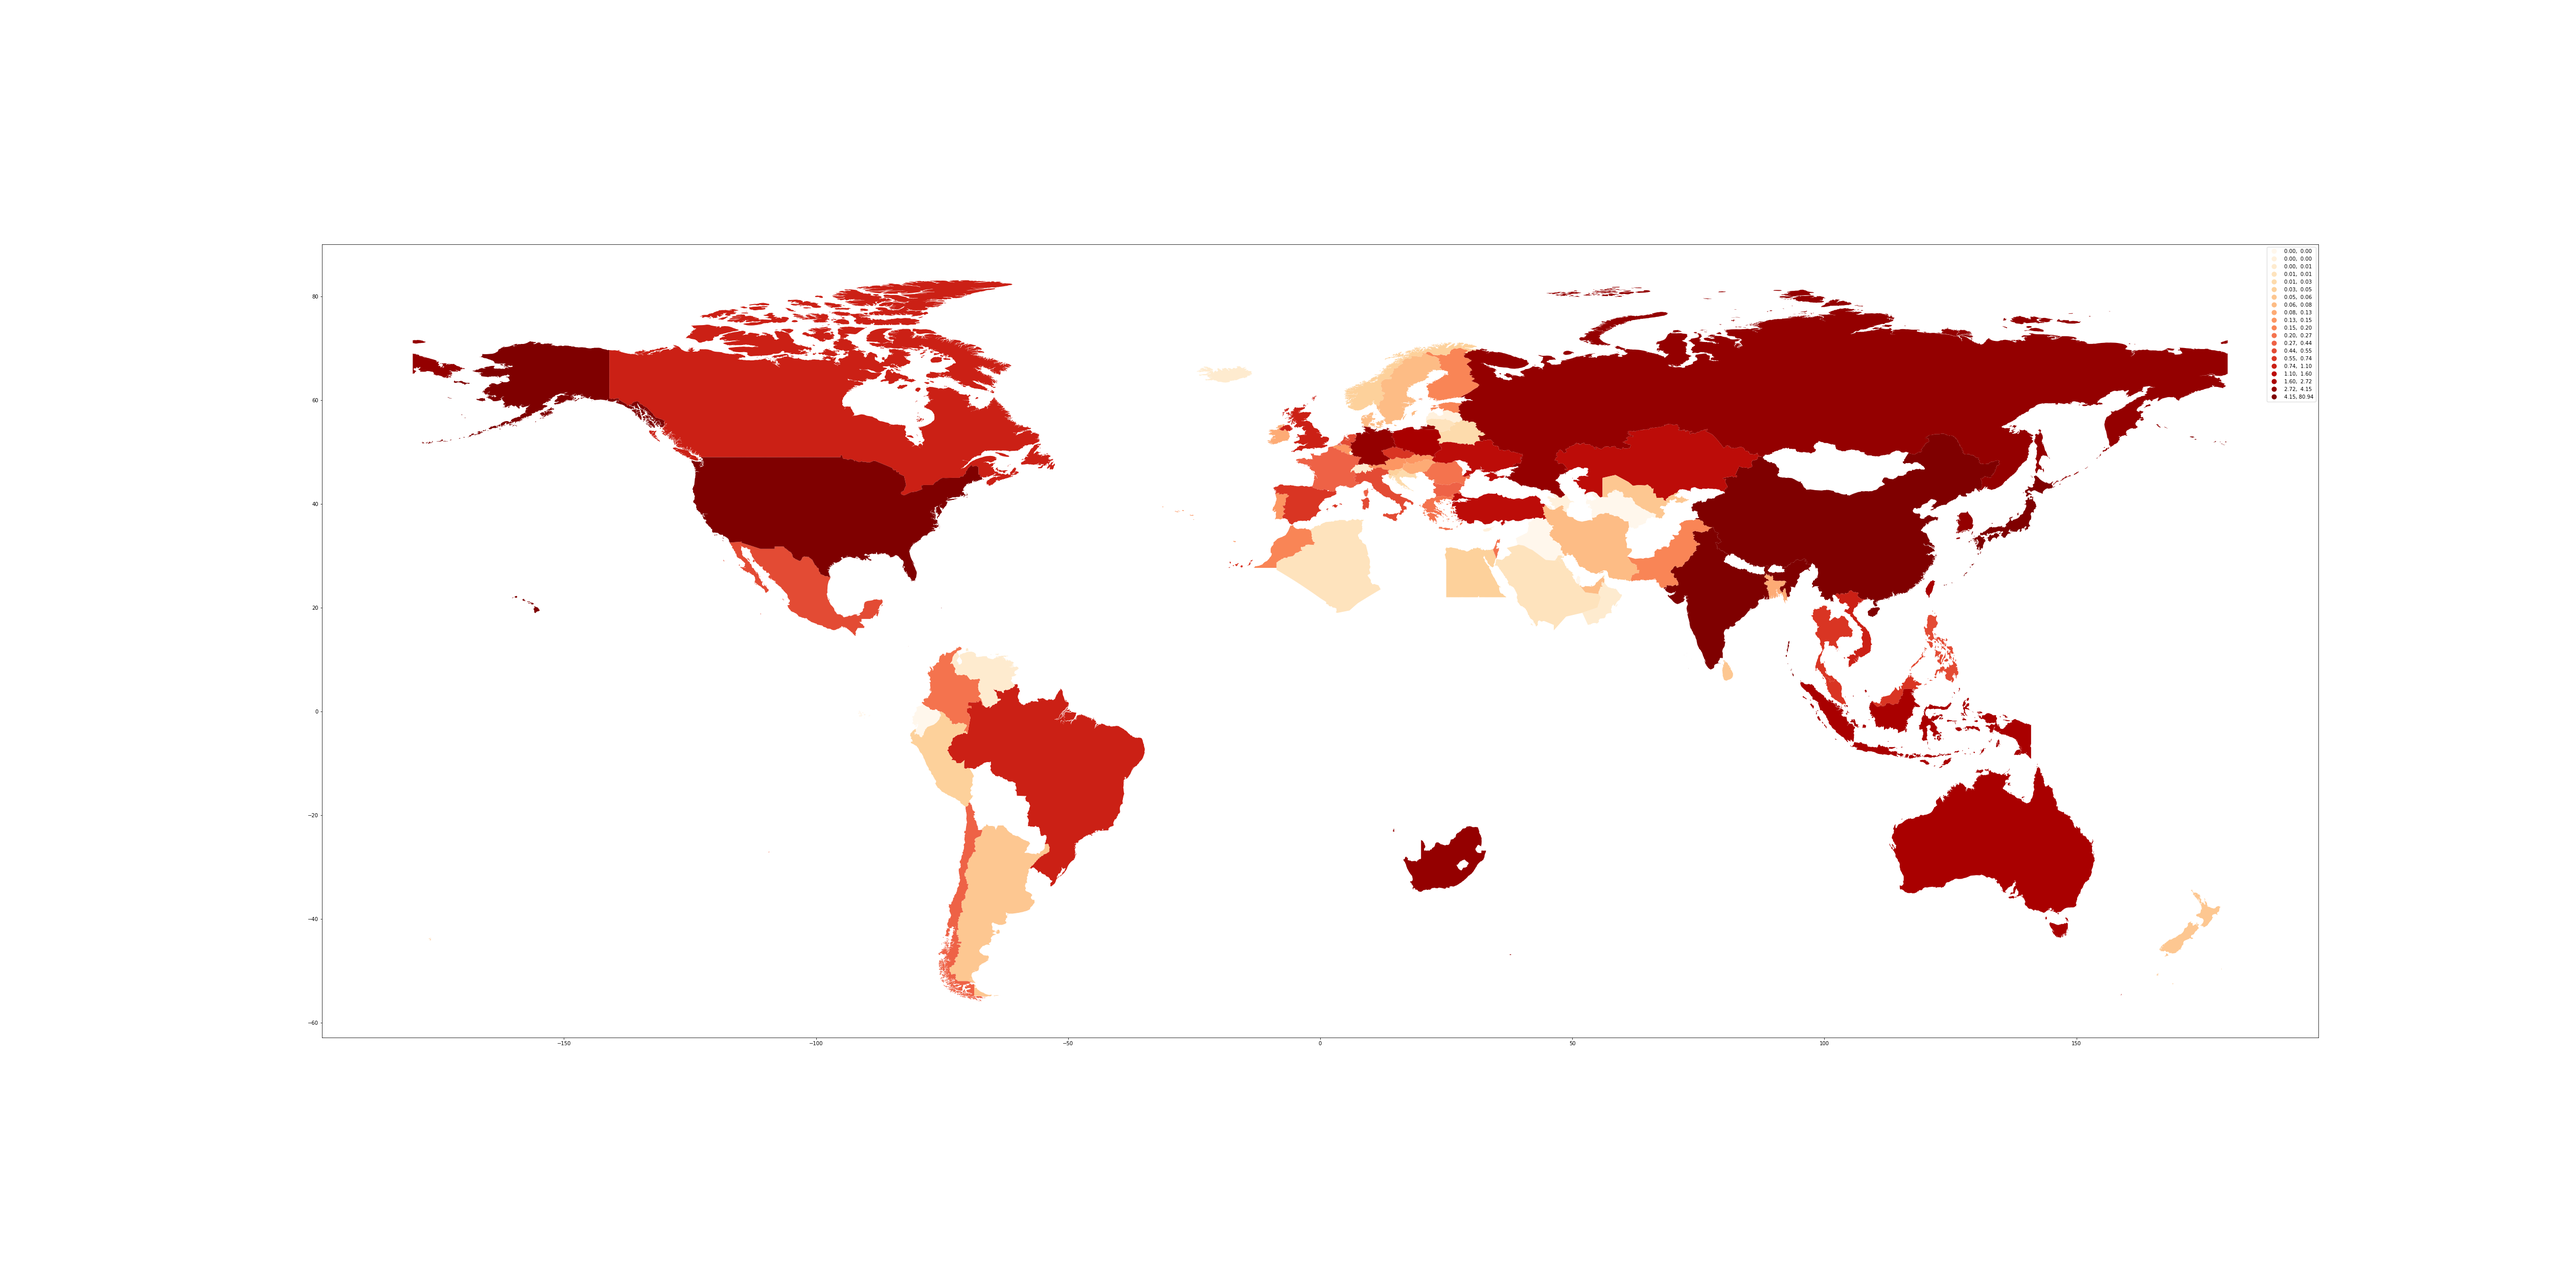
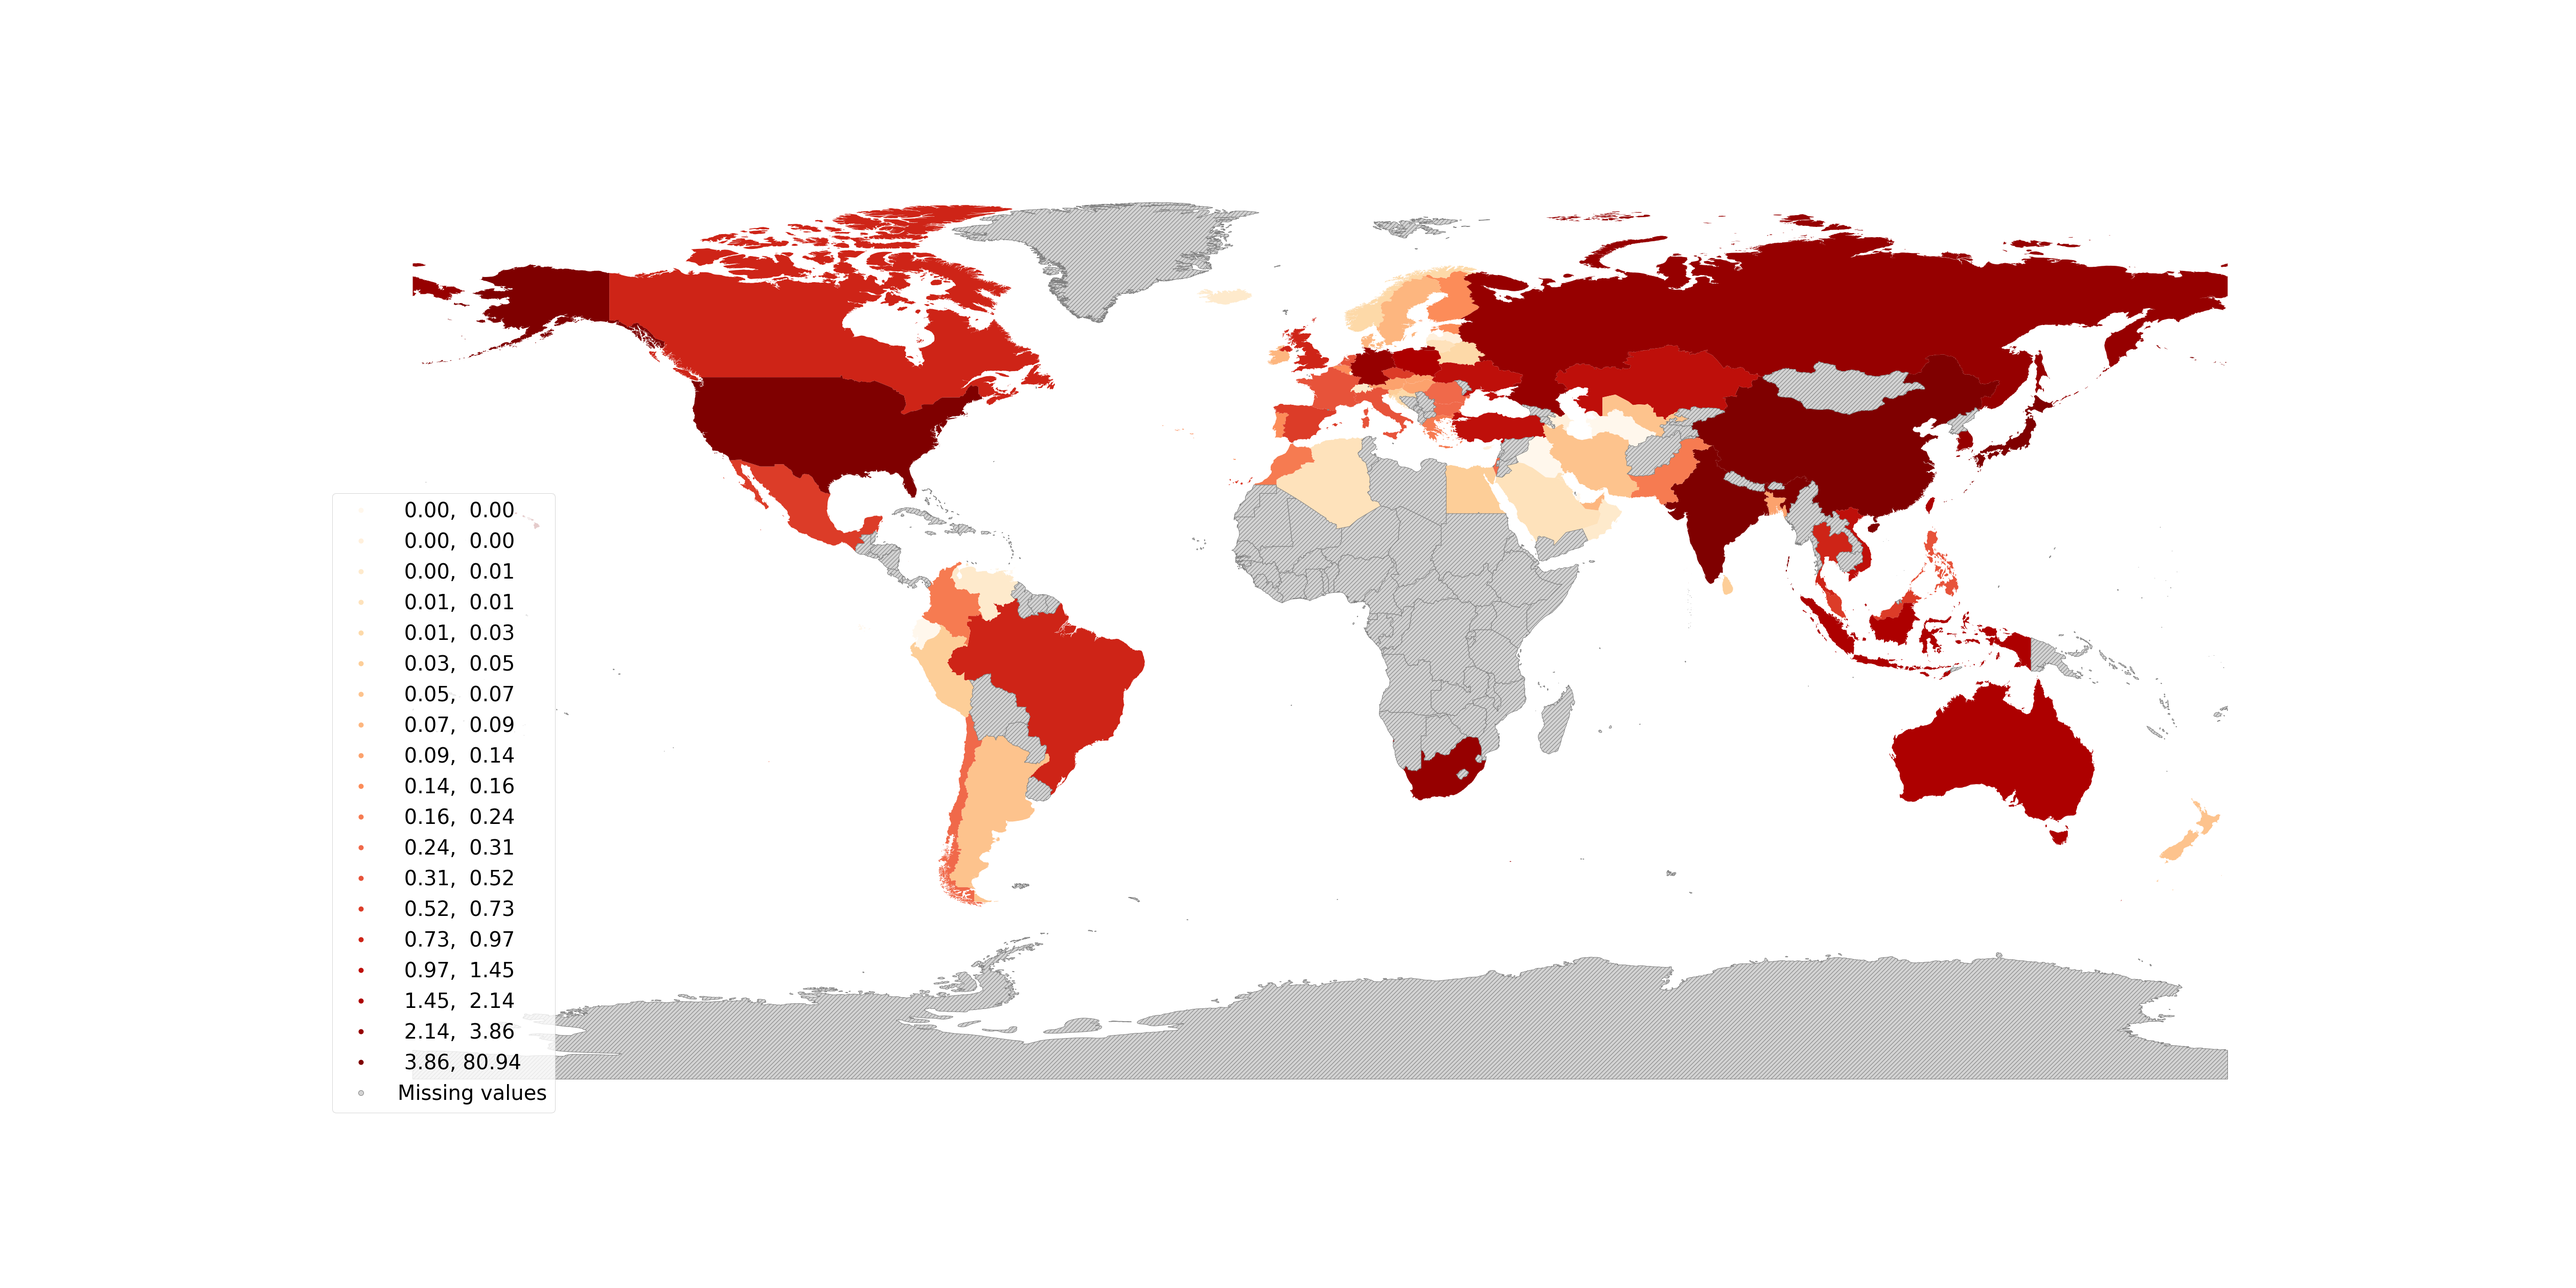
Fine tuned plotting scripts

diff --git a/trial.py b/trial.py
@@ -1,8 +1,8 @@
 import geopandas as gpd
 from matplotlib import pyplot as plt
 import pandas as pd
-import mapclassify
-import libpysal
+#import mapclassify
+#import libpysal
 
  # Importing the files
 data = pd.read_csv('countryx2_random.csv')
@@ -12,9 +12,27 @@ countries = countries.rename(columns={'COUNTRY': 'Country'})
 
 countries = countries.set_index('Country')
 data = data.set_index('Country')
-mergedDF = pd.merge(countries, data, left_index=True, right_index=True)
+mergedDF = countries.join(data)
 
-mergedDF.plot(cmap='OrRd', column='coalcons_ej', figsize= (70,35),scheme='quantiles',  k=20, legend = True)
+mergedDF.plot(cmap='OrRd', column='coalcons_ej', figsize= (70,35),scheme='quantiles',  k=19, legend = True,
+              missing_kwds={
+                  "color": "lightgrey",
+                  "edgecolor": "grey",
+                  "hatch": "///",
+                  "label": "Missing values",
+                  },
+              legend_kwds={
+                  "fontsize":40,
+                  "loc" :"lower left",
+                  #"ncol" : 10,
+                  }
+              )
 
 x = pd.isnull(mergedDF["geometry"])
+plt.axis('off')
 plt.savefig('foo.png')
+
+#listOfCountry = []
+#for countryInData in countryData:
+ #   if not(countryInData in countryMap):
+ #       listOfCountry.append(countryInData)

diff --git a/random csv gen.py b/random csv gen.py
@@ -1,7 +1,5 @@
 import pandas as pd
-import numpy as np
-import geopandas as gpd
-import shapefile as shp
+
 
 df = pd.read_excel("data/bp-stats-review-2021-consolidated-dataset-panel-format.xlsx")
 df2 = df[df["Year"] == 2015]
@@ -20,6 +18,23 @@ as_list = df4.index.tolist()
 idx = as_list.index('US')
 as_list[idx] = 'United States'
 df4.index = as_list
+### Changing "Curacao" to "Curacao (Netherlands)"
+as_list = df4.index.tolist()
+idx = as_list.index('Curacao')
+as_list[idx] = 'Curacao (Netherlands)'
+df4.index = as_list
+### Changing "Democratic Republic of Congo" to "Democratic Republic of the Congo"
+as_list = df4.index.tolist()
+idx = as_list.index('Democratic Republic of Congo')
+as_list[idx] = 'Democratic Republic of the Congo'
+df4.index = as_list
+### Changing "Trinidad & Tobago" to "Trinidad and Tobago"
+as_list = df4.index.tolist()
+idx = as_list.index('Trinidad & Tobago')
+as_list[idx] = 'Trinidad and Tobago'
+df4.index = as_list
+
+
 
 df4.index.name = 'Country'
 
